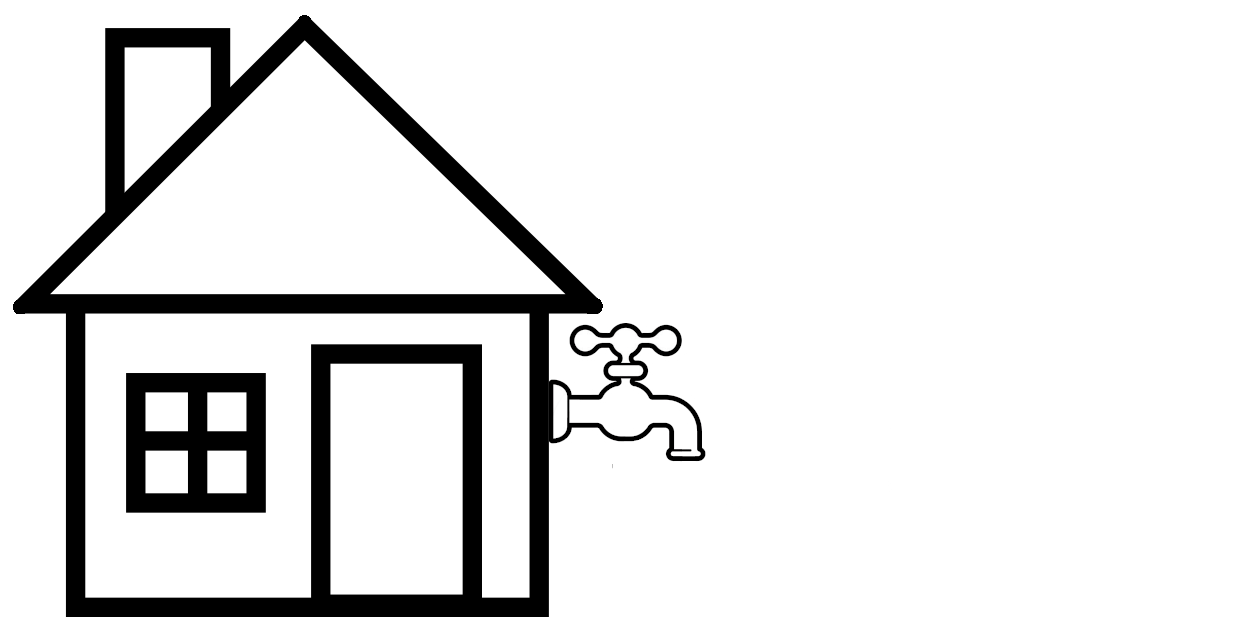
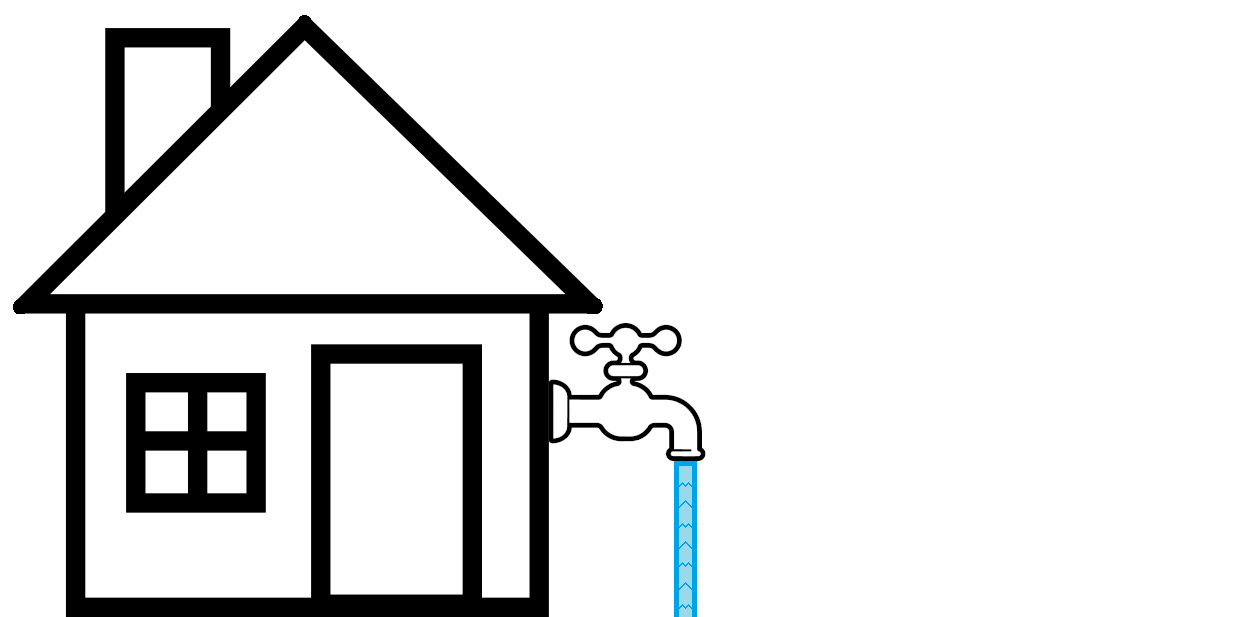
Working on household animation

diff --git a/household_animation/household_saved.js b/household_animation/household_saved.js
@@ -1,0 +1,76 @@
+var canvas = document.getElementById("canvas1"),
+    ctx1 = canvas.getContext("2d"),
+    f1 = document.getElementById("faucet_full1"),
+    f2 = document.getElementById("faucet_full2"),
+    f3 = document.getElementById("faucet_full3"),
+    f4 = document.getElementById("faucet_full4"),
+    d1 = document.getElementById("faucet_drip1"),
+    d2 = document.getElementById("faucet_drip2"),
+    d3 = document.getElementById("faucet_drip3"),
+    d4 = document.getElementById("faucet_drip4"),
+    d5 = document.getElementById("faucet_drip5"),
+    d6 = document.getElementById("faucet_drip6"),
+    d7 = document.getElementById("faucet_drip7"),
+    d8 = document.getElementById("faucet_drip8"),
+    d9 = document.getElementById("faucet_drip9"),
+    curFrame = 0,
+    outFrame;
+
+function drawFaucet() {
+  if(curFrame == 0){
+    outFrame = f1;
+    curFrame++;
+  }else if(curFrame == 1){
+    outFrame = f2;
+    curFrame++;
+  }else if(curFrame == 2) {
+    outFrame = f3;
+    curFrame++;
+  }else if(curFrame == 3) {
+    outFrame = f4;
+    curFrame = 0;
+  }
+  ctx1.clearRect(0,0,canvas.width,canvas.height);
+  ctx1.drawImage(outFrame, 0, 0, canvas.width, canvas.height);
+}
+
+function drawDrip() {
+  if(curFrame == 0){
+    outFrame = d1;
+    curFrame++;
+  }else if(curFrame == 1){
+    outFrame = d2;
+    curFrame++;
+  }else if(curFrame == 2) {
+    outFrame = d3;
+    curFrame++;
+  }else if(curFrame == 3) {
+    outFrame = d4;
+    curFrame++;
+  }else if(curFrame == 4) {
+    outFrame = d5;
+    curFrame++;
+  }else if(curFrame == 5) {
+    outFrame = d6;
+    curFrame++;
+  }else if(curFrame == 6) {
+    outFrame = d7;
+    curFrame++;
+  }else if(curFrame == 7) {
+    outFrame = d8;
+    curFrame++;
+  }else if(curFrame == 8) {
+    outFrame = d9;
+    curFrame = 0;
+  }
+  ctx1.clearRect(0,0,canvas.width,canvas.height);
+  ctx1.drawImage(outFrame, 0, 0, canvas.width, canvas.height);
+}
+
+function animateFaucet(){
+  setInterval(drawFaucet, 1000);
+}
+
+function animateDrip(){
+  setInterval(drawDrip, 500);
+}

diff --git a/household_animation/household_saved.html b/household_animation/household_saved.html
@@ -1,0 +1,27 @@
+<!DOCTYPE html>
+<head>
+  <title>Household</title>
+  <meta charset="utf-8">
+	<meta name="viewport" content="user-scalable=no">
+  <script src="js/phaser.js"></script>
+</head>
+<body onload="drawFaucet(), animateFaucet()">
+	<div id="canvasContainer">
+		<canvas id="canvas1" width="628px" height="309px"></canvas>
+	</div>
+  <img id="faucet_full1" src="house_faucet_1.png" style="display:none">
+  <img id="faucet_full2" src="house_faucet_2.png" style="display:none">
+  <img id="faucet_full3" src="house_faucet_3.png" style="display:none">
+  <img id="faucet_full4" src="house_faucet_4.png" style="display:none">
+  <img id="faucet_drip1" src="house_drip_1.png" style="display:none">
+  <img id="faucet_drip2" src="house_drip_2.png" style="display:none">
+  <img id="faucet_drip3" src="house_drip_3.png" style="display:none">
+  <img id="faucet_drip4" src="house_drip_4.png" style="display:none">
+  <img id="faucet_drip5" src="house_drip_5.png" style="display:none">
+  <img id="faucet_drip6" src="house_drip_6.png" style="display:none">
+  <img id="faucet_drip7" src="house_drip_7.png" style="display:none">
+  <img id="faucet_drip8" src="house_drip_8.png" style="display:none">
+  <img id="faucet_drip9" src="house_drip_9.png" style="display:none">
+
+  <script src="household_saved.js"></script>
+</body>
